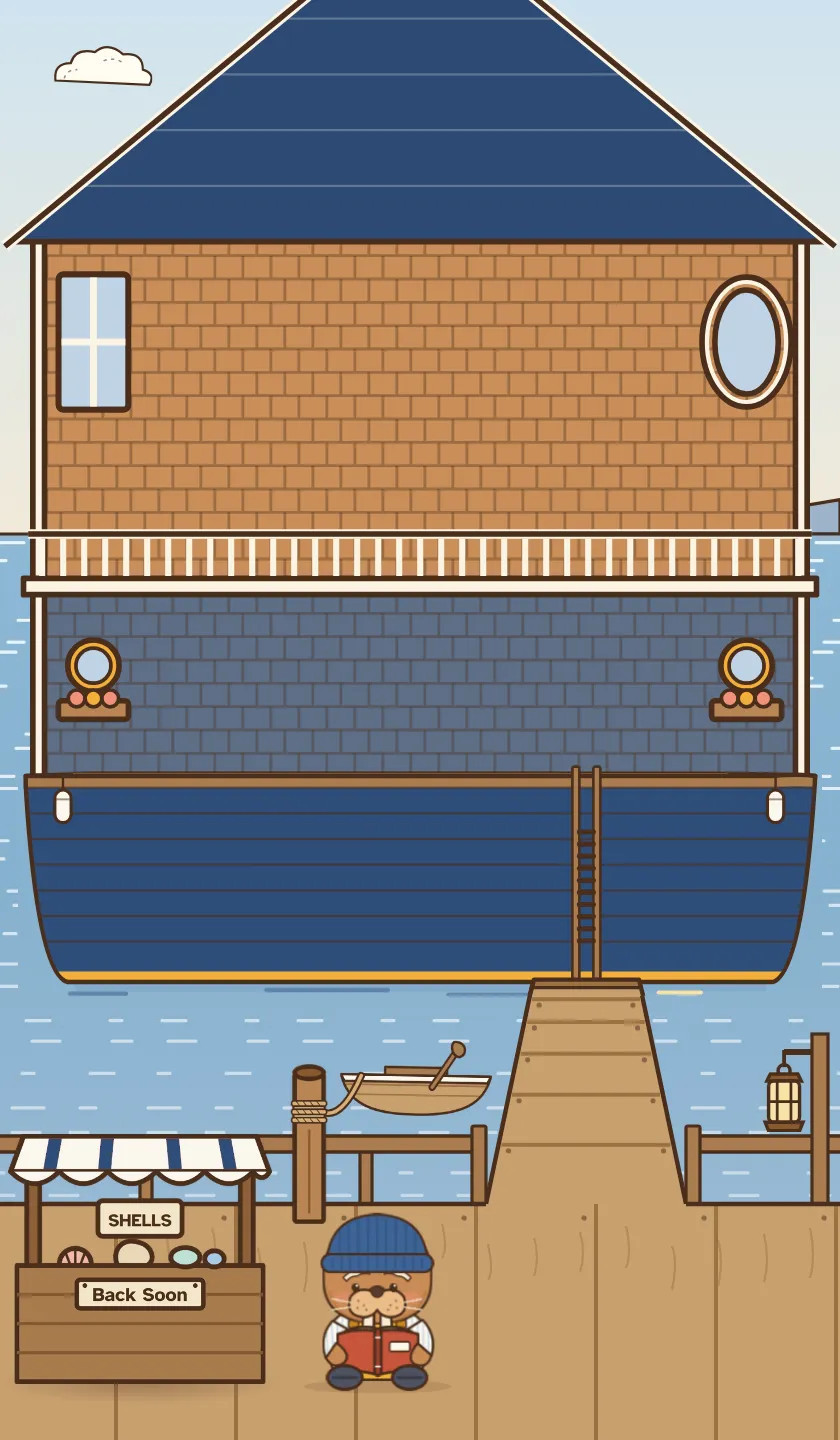
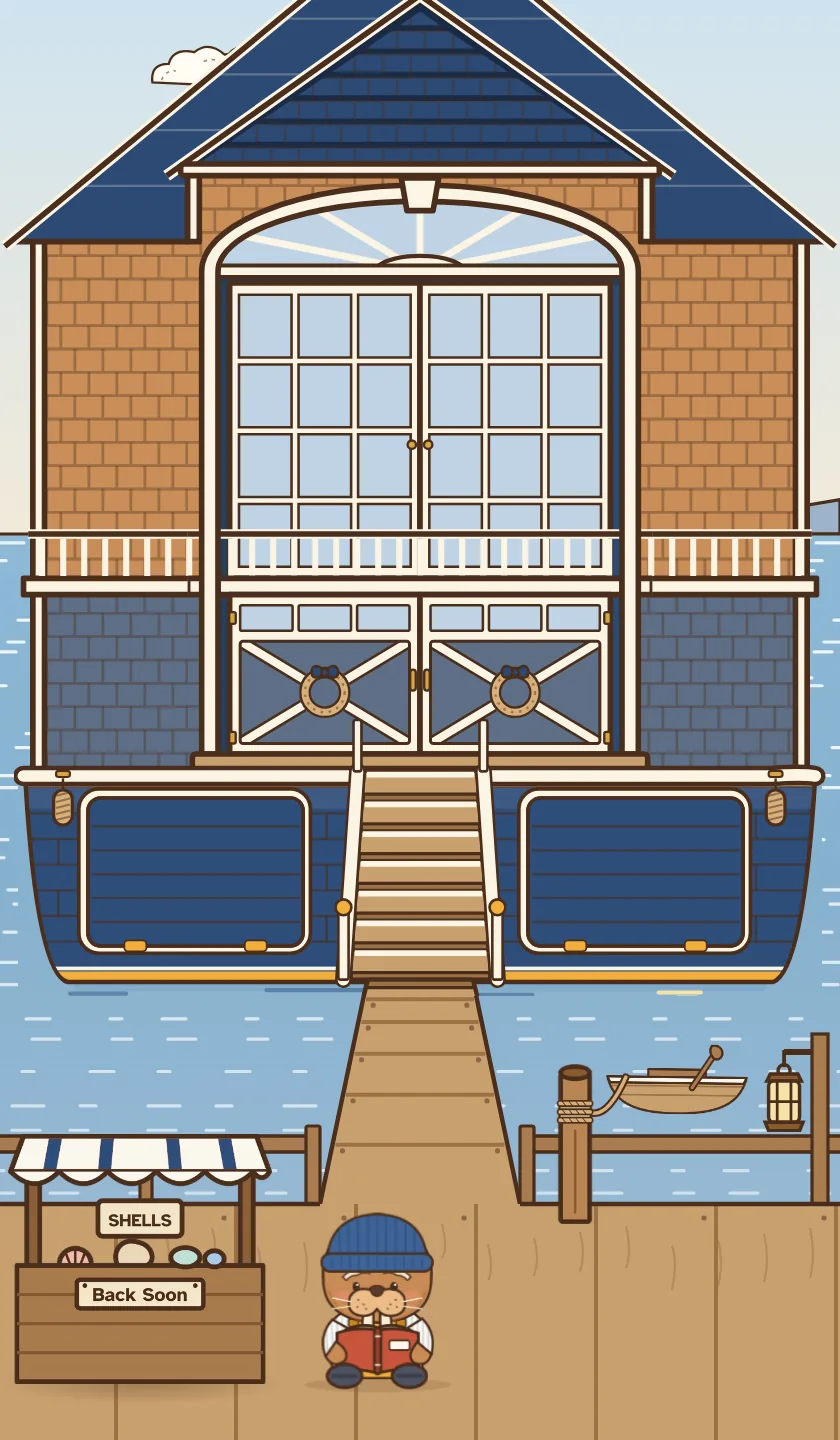
Match the homepage harbor window to the app's new boathouse (#72)
The card now sits in the arched doorway, with Later and Done on the
upper walls and Time and Steps below, recaptured from today's app at
all ten of Boone's hours. Boone's tap spots follow his new places, and
his talk box opens just above him.

Claude-Session: https://claude.ai/code/session_01DcAsRdVhoUAcaA1hRJqdpX

diff --git a/shine.css b/shine.css
@@ -13,46 +13,45 @@
 .harbor .scene { position: absolute; inset: 0; width: 100%; height: 100%; display: block; }
 .sky { position: absolute; inset: 0 0 60% 0; pointer-events: none; z-index: 2; }
 
-.deck { position: absolute; left: 18.33%; top: 6.4%; width: 63.33%; height: 46.1%; }
+.deck { position: absolute; left: 28.57%; top: 20.14%; width: 43.1%; height: 31.39%; }
 .hcard {
-  position: absolute; inset: 0; background: #fcfaf4; border: 2px solid #dce3ec; border-radius: 6cqw;
-  box-shadow: 0 1.2cqw 0 rgba(36, 64, 92, .12), 0 3cqw 6cqw rgba(16, 26, 48, .22);
+  position: absolute; inset: 0; background: url(img/harbor/card-day.webp?v=3) center / 100% 100% no-repeat; border-radius: 6.67cqw;
   display: flex; flex-direction: column; align-items: center; justify-content: center; gap: 2cqw; padding: 4cqw;
-  font: 700 6.4cqw/1.15 var(--sans); color: var(--ink); text-align: center; user-select: none;
+  font: 700 5.6cqw/1.15 var(--sans); color: var(--ink); text-align: center; user-select: none;
   transition: transform .26s ease, opacity .26s ease; touch-action: pan-y; cursor: grab;
 }
-.hcard img { width: 58%; height: auto; pointer-events: none; }
-.hcard.peek { transform: translateY(-6.5%) scale(.9); transform-origin: top center; justify-content: flex-start; padding-top: 1.6cqw; font-size: 3.4cqw; z-index: 0; }
-.hcard.peek > :not(b) { visibility: hidden; height: 0; }
-.hcard.peek > b { order: -1; }
+.harbor.night .hcard, .harbor.night .time-card { background-image: url(img/harbor/card-night.webp?v=3); }
+.hcard img { width: 56%; height: auto; pointer-events: none; }
+.hcard.peek { transform: translateY(1.6%) scale(.97); transform-origin: bottom center; z-index: 0; filter: brightness(.94); }
+.hcard.peek > * { visibility: hidden; }
 .hcard.front { z-index: 1; }
 .hcard.dragging { transition: none; cursor: grabbing; }
 .hcard.gone-right { transform: translateX(130%) rotate(14deg); opacity: 0; }
 .hcard.gone-left { transform: translateX(-130%) rotate(-14deg); opacity: 0; }
 .hcard.small-already { animation: nod .45s ease; }
 @keyframes nod { 30% { transform: rotate(-2deg); } 70% { transform: rotate(2deg); } }
-.step-of { position: absolute; top: 3.5cqw; left: 4cqw; right: 4cqw; font: 700 3.1cqw/1.2 var(--sans); color: var(--muted); }
+.step-of { position: absolute; top: 4cqw; left: 4cqw; right: 4cqw; font: 700 2.6cqw/1.2 var(--sans); color: var(--muted); }
 .time-chip { font: 700 3.4cqw/1 var(--sans); color: var(--navy); background: var(--soft); border-radius: 99px; padding: 1.6cqw 3cqw; }
 .time-card {
-  position: absolute; inset: 0; border-radius: inherit; background: #fcfaf4; display: grid; gap: 2.4cqw; align-content: center; padding: 6cqw;
+  position: absolute; inset: 0; border-radius: inherit; background: url(img/harbor/card-day.webp?v=3) center / 100% 100% no-repeat; display: grid; gap: 2cqw; align-content: center; padding: 5cqw;
 }
-.time-card b { font: 600 6.4cqw/1 var(--serif); color: var(--navy); margin-bottom: 1cqw; }
+.time-card b { font: 600 5.2cqw/1 var(--serif); color: var(--navy); margin-bottom: 1cqw; }
 .time-card button, .deal {
-  font: 700 4.2cqw/1.2 var(--sans); color: var(--navy); background: var(--soft); border: 0; border-radius: 3cqw; padding: 3cqw; cursor: pointer;
+  font: 700 3.6cqw/1.2 var(--sans); color: var(--navy); background: var(--soft); border: 0; border-radius: 3cqw; padding: 2.4cqw; cursor: pointer;
   box-shadow: 0 .8cqw 0 var(--soft-lip);
 }
 .hcard.quiet { cursor: default; gap: 3cqw; }
-.quiet-title { font: 600 7cqw/1.1 var(--serif); color: var(--navy); }
-.hcard.quiet p { font: 400 4.4cqw/1.4 var(--sans); margin: 0; color: var(--ink); }
+.quiet-title { font: 600 5.6cqw/1.1 var(--serif); color: var(--navy); }
+.hcard.quiet p { font: 400 3.6cqw/1.35 var(--sans); margin: 0; color: var(--ink); }
 .deal { background: var(--blue); color: #fff; box-shadow: 0 .8cqw 0 var(--lip); padding: 3cqw 6cqw; }
 
-.port { position: absolute; left: var(--x); top: 55.14%; width: 20.48%; padding: 0; border: 0; background: none; cursor: pointer; border-radius: 40%; }
+.port { position: absolute; left: var(--x); top: var(--y); width: var(--w); padding: 0; border: 0; background: none; cursor: pointer; border-radius: 40%; }
 .port img { display: block; width: 100%; transition: transform .12s; }
 .port:active img { transform: scale(.94); }
 .boone-spot { position: absolute; padding: 0; border: 0; background: none; cursor: pointer; border-radius: 30%; }
 
 .undo-note {
-  position: absolute; left: 4%; top: 69%; display: flex; align-items: center; gap: 3cqw; background: #fcfaf4; border-radius: 3cqw; padding: 1.6cqw 2.4cqw 1.6cqw 3.4cqw;
+  position: absolute; left: 50%; top: 53.5%; display: flex; z-index: 3; translate: -50% 0; align-items: center; gap: 3cqw; background: #fcfaf4; border-radius: 3cqw; padding: 1.6cqw 2.4cqw 1.6cqw 3.4cqw;
   box-shadow: 0 1.5cqw 4cqw rgba(16, 26, 48, .25); transform: rotate(-2deg);
 }
 .undo-note i { font: 400 6cqw/1 'Patrick Hand', cursive; color: var(--navy); font-style: normal; }
@@ -76,7 +75,7 @@
 .talk.inline .talk-go { width: 42px; height: 42px; right: 10px; }
 
 .look-up {
-  position: absolute; right: 16%; top: 75%; transform: rotate(3deg); background: #fcfaf4; border: 0; border-radius: 2.4cqw; padding: 2.4cqw 3.4cqw;
+  position: absolute; right: 5%; top: 64%; transform: rotate(3deg); background: #fcfaf4; border: 0; border-radius: 2.4cqw; padding: 2.4cqw 3.4cqw;
   font: 400 5cqw/1 'Patrick Hand', cursive; color: var(--navy); cursor: pointer; box-shadow: 0 1.5cqw 4cqw rgba(36, 64, 92, .45);
 }
 .meteor { position: absolute; width: 12cqw; height: 12cqw; margin: -6cqw; padding: 0; border: 0; background: none; cursor: pointer; pointer-events: auto; animation: glide-left 3s linear forwards, pop .36s ease-out; }

diff --git a/harbor.js b/harbor.js
@@ -20,9 +20,9 @@ const HOURS = [
 ];
 // Where Boone stands in each scene (left, top, right, bottom of 840 x 1440).
 const BOONE_AT = {
-  7: [620, 1042, 760, 1242], 9: [290, 1106, 430, 1306], 11: [285, 1060, 405, 1235], 13: [280, 1203, 420, 1403],
-  14: [523, 955, 663, 1155], 16: [307, 1205, 447, 1405], 18: [327, 1197, 467, 1397], 19: [265, 1122, 405, 1322],
-  21: [307, 1132, 447, 1332], 23: [277, 1021, 417, 1221],
+  7: [625, 1065, 765, 1245], 9: [275, 1140, 420, 1350], 11: [551, 1038, 768, 1250], 13: [305, 1200, 450, 1395],
+  14: [384, 998, 560, 1184], 16: [305, 1200, 450, 1395], 18: [305, 1200, 460, 1395], 19: [262, 1150, 400, 1345],
+  21: [252, 1140, 430, 1345], 23: [529, 1042, 746, 1254],
 };
 // The pose for a clock hour, by the same table the app uses.
 const poseFor = (hour) => {
@@ -39,18 +39,15 @@ let now = poseFor(new Date().getHours());
 
 function showHour(hour) {
   now = hour;
-  scene.src = `img/harbor/h${hour.at}.webp?v=2`;
+  scene.src = `img/harbor/h${hour.at}.webp?v=3`;
   harbor.classList.toggle('night', Boolean(hour.night));
   document.querySelectorAll('.port img').forEach((img) => {
-    img.src = img.src.replace(/-(day|night)\.webp$/, `-${hour.night ? 'night' : 'day'}.webp`);
+    img.src = img.src.replace(/-(day|night)\.webp/, `-${hour.night ? 'night' : 'day'}.webp`);
   });
   const [left, top, right, bottom] = BOONE_AT[hour.at];
   Object.assign(booneSpot.style, { left: `${(left / 840) * 100}%`, top: `${(top / 1440) * 100}%`, width: `${((right - left) / 840) * 100}%`, height: `${((bottom - top) / 1440) * 100}%` });
-  // The talk box sits low on the dock beside Boone, on his roomier side, never over him.
-  const roomLeft = left / 840;
-  const roomRight = 1 - right / 840;
-  const side = roomLeft > roomRight ? { left: '3%', right: `${(1 - roomLeft) * 100 + 2}%` } : { left: `${(right / 840) * 100 + 2}%`, right: '3%' };
-  Object.assign(talk.style, side, { top: `${Math.min((top / 1440) * 100 + 4, 80)}%` });
+  // The talk box sits just above Boone, across the dock, never over him.
+  Object.assign(talk.style, { left: '6%', right: '6%', top: 'auto', bottom: `${100 - (top / 1440) * 100 + 1.5}%` });
   poseLine.textContent = hour.story;
   hours.querySelectorAll('button').forEach((button) => button.setAttribute('aria-pressed', String(button.dataset.at === String(hour.at))));
   closeTalk();
@@ -66,7 +63,7 @@ for (const hour of HOURS) {
   hours.appendChild(chip);
 }
 // Preload the other hours once the page has settled, so switching is instant.
-window.addEventListener('load', () => setTimeout(() => HOURS.forEach((hour) => { new Image().src = `img/harbor/h${hour.at}.webp?v=2`; }), 1500));
+window.addEventListener('load', () => setTimeout(() => HOURS.forEach((hour) => { new Image().src = `img/harbor/h${hour.at}.webp?v=3`; }), 1500));
 
 // Boone's talk box, low on the dock like in the app.
 const talk = document.getElementById('talk');

diff --git a/index.html b/index.html
@@ -76,14 +76,14 @@
   </div>
   <div class="harbor-wrap">
     <div class="harbor" id="harbor-window" aria-label="Boone's dock. Try the cards." role="region">
-      <img class="scene" id="scene" src="img/harbor/h14.webp?v=2" alt="" width="840" height="1440" fetchpriority="high">
+      <img class="scene" id="scene" src="img/harbor/h14.webp?v=3" alt="" width="840" height="1440" fetchpriority="high">
       <div class="sky" id="sky" aria-hidden="true"></div>
       <div class="deck" id="deck" aria-live="polite"></div>
       <div class="ports">
-        <button class="port" id="port-later" style="--x:8.81%" aria-label="Later"><img src="img/harbor/btn-later-day.webp" alt="" width="172" height="180"></button>
-        <button class="port" id="port-time" style="--x:29.52%" aria-label="Time"><img src="img/harbor/btn-time-day.webp" alt="" width="172" height="180"></button>
-        <button class="port" id="port-steps" style="--x:50%" aria-label="Steps"><img src="img/harbor/btn-steps-day.webp" alt="" width="172" height="180"></button>
-        <button class="port" id="port-done" style="--x:70.48%" aria-label="Done"><img src="img/harbor/btn-done-day.webp" alt="" width="172" height="180"></button>
+        <button class="port" id="port-later" style="--x:2.62%;--y:22.92%;--w:24.05%" aria-label="Later"><img src="img/harbor/btn-later-day.webp?v=3" alt="" width="202" height="196"></button>
+        <button class="port" id="port-done" style="--x:74.29%;--y:23.19%;--w:22.38%" aria-label="Done"><img src="img/harbor/btn-done-day.webp?v=3" alt="" width="188" height="184"></button>
+        <button class="port" id="port-time" style="--x:3.81%;--y:41.67%;--w:22.14%" aria-label="Time"><img src="img/harbor/btn-time-day.webp?v=3" alt="" width="186" height="180"></button>
+        <button class="port" id="port-steps" style="--x:74.29%;--y:41.67%;--w:22.14%" aria-label="Steps"><img src="img/harbor/btn-steps-day.webp?v=3" alt="" width="186" height="180"></button>
       </div>
       <button class="boone-spot" id="boone-spot" aria-label="Boone"></button>
       <button class="look-up" id="look-up" hidden>Look up tonight.</button>
